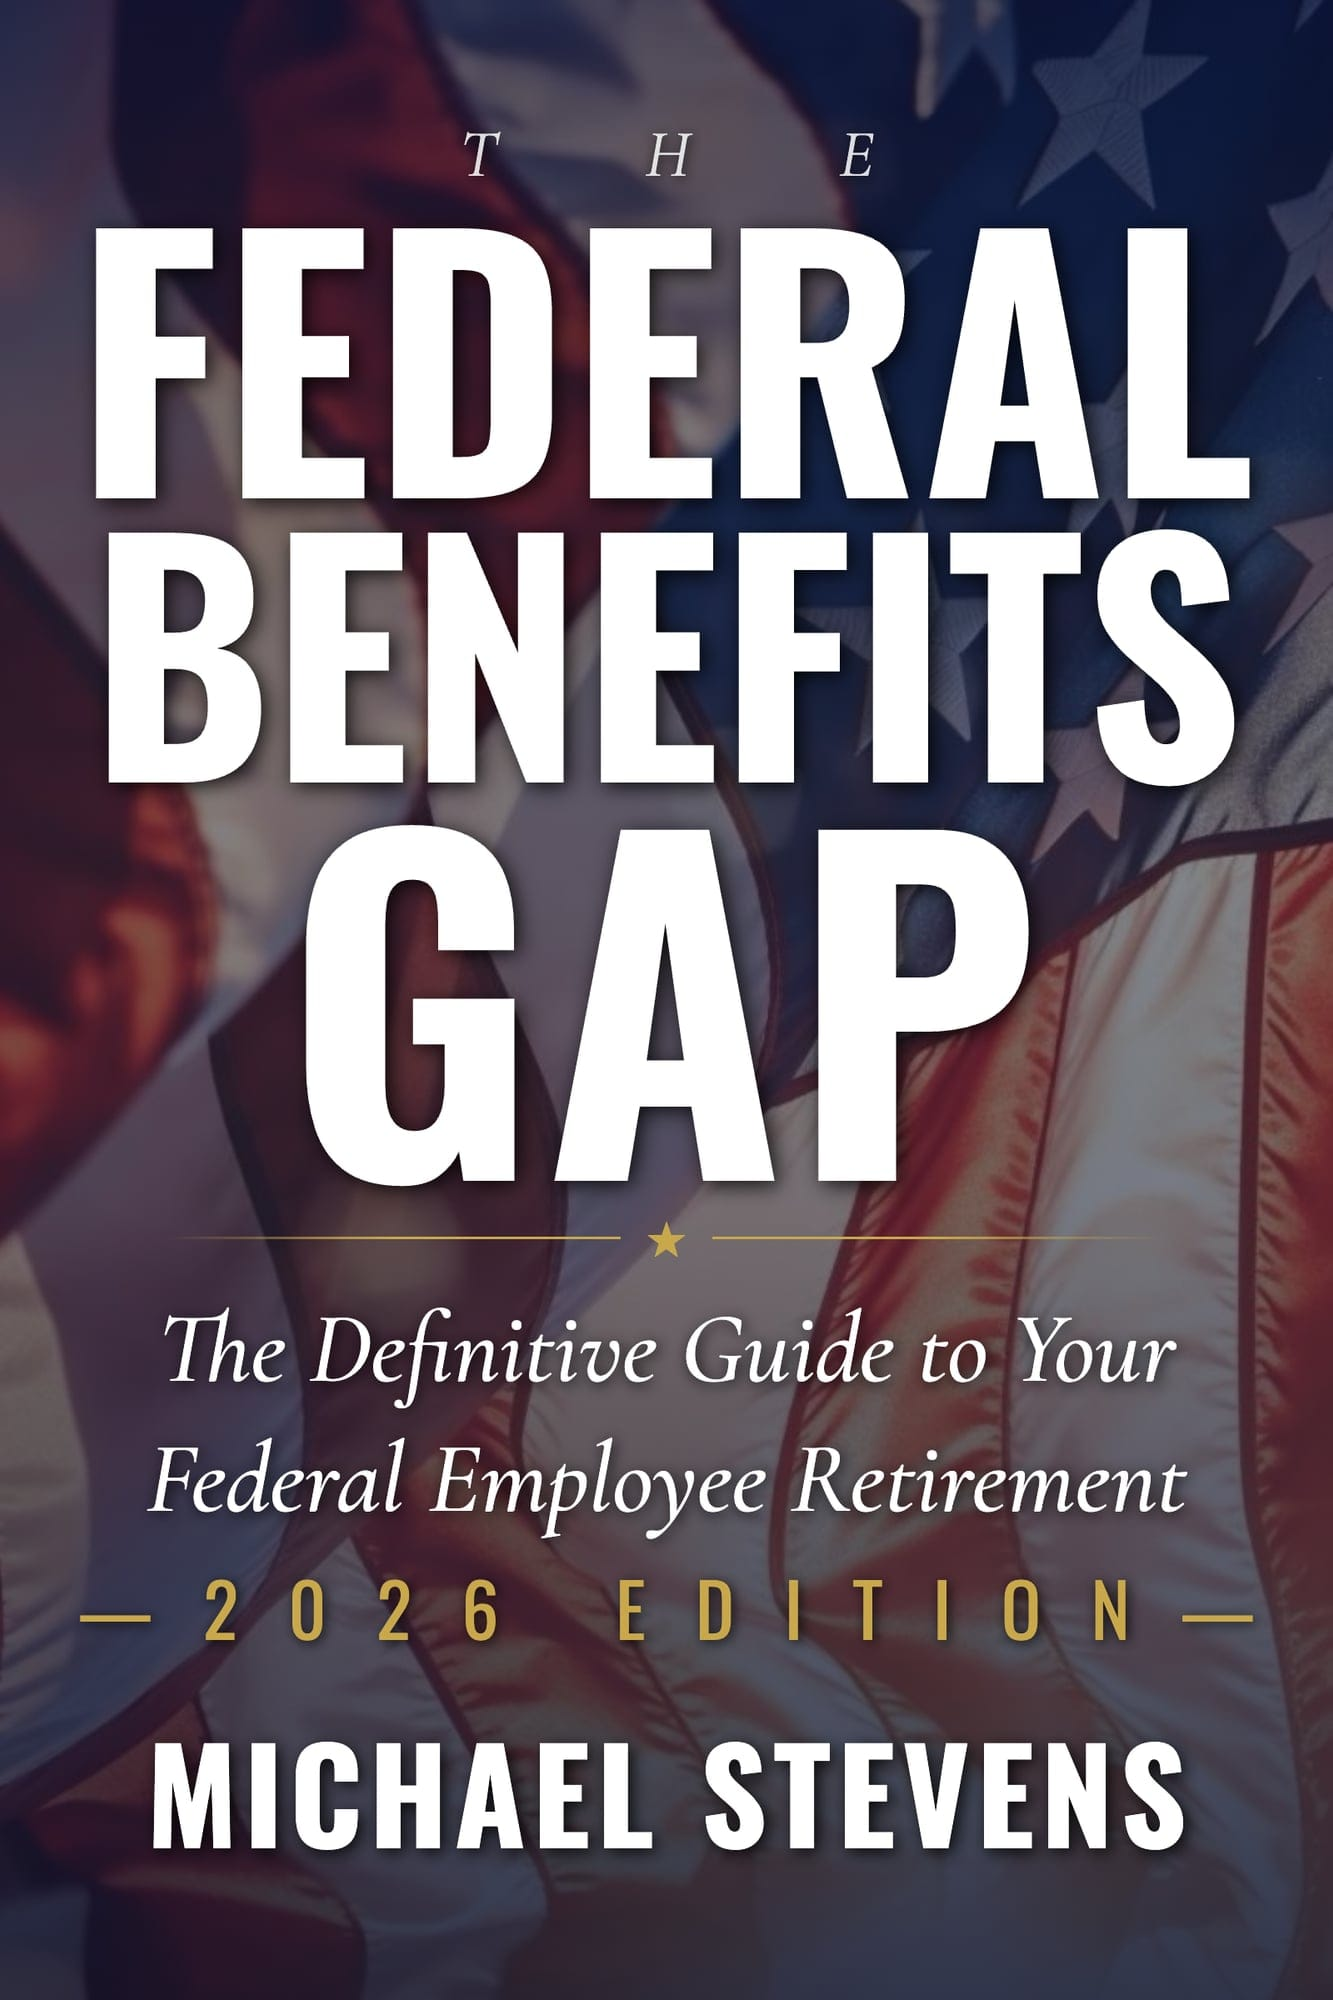
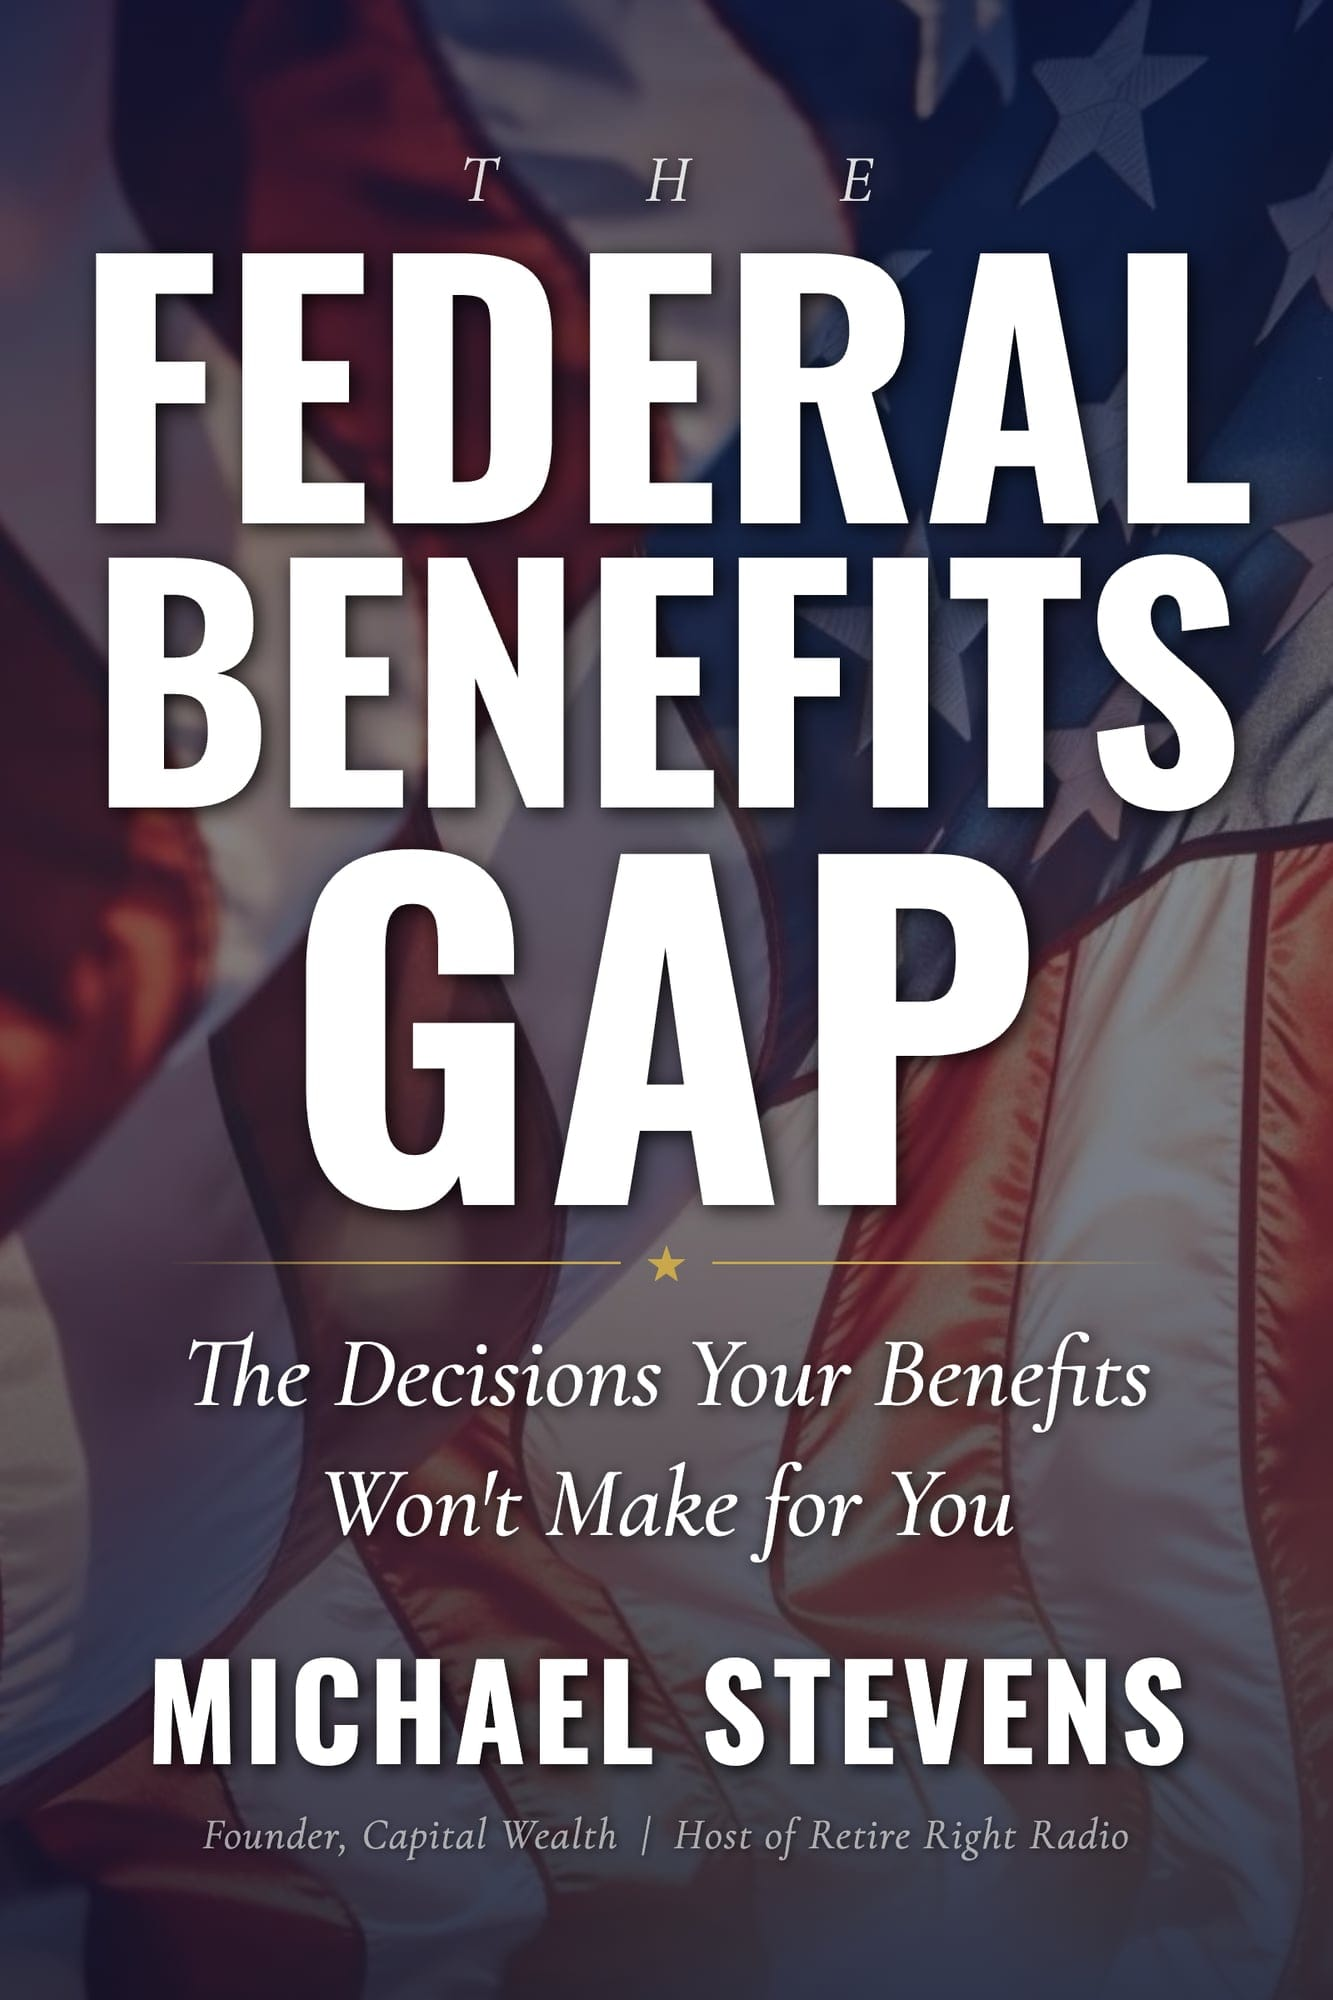
Bot Melvin: Final approved cover, new subtitle, remove 2026 edition

diff --git a/_site/index.html b/_site/index.html
@@ -39,7 +39,7 @@
             <div class="hero-text">
                 <div class="coming-soon-badge">Coming Soon</div>
                 <h1 class="hero-title">The Federal Benefits Gap</h1>
-                <p class="hero-subtitle">The Definitive Guide to Your Federal Employee Retirement</p>
+                <p class="hero-subtitle">The Decisions Your Benefits Won't Make for You</p>
                 <p class="hero-tagline">Your Federal Benefits Are More Valuable Than You Think. Most Federal Employees Leave Thousands on the Table.</p>
                 <p class="hero-description">Discover the critical gaps between what HR tells you and what you actually need to know for a secure federal retirement. This comprehensive guide reveals advanced strategies for FERS, TSP, FEGLI, and FEHB that most federal employees miss.</p>
                 <a href="#free-chapter" class="btn btn-primary btn-large">Get Your Free Chapter</a>
